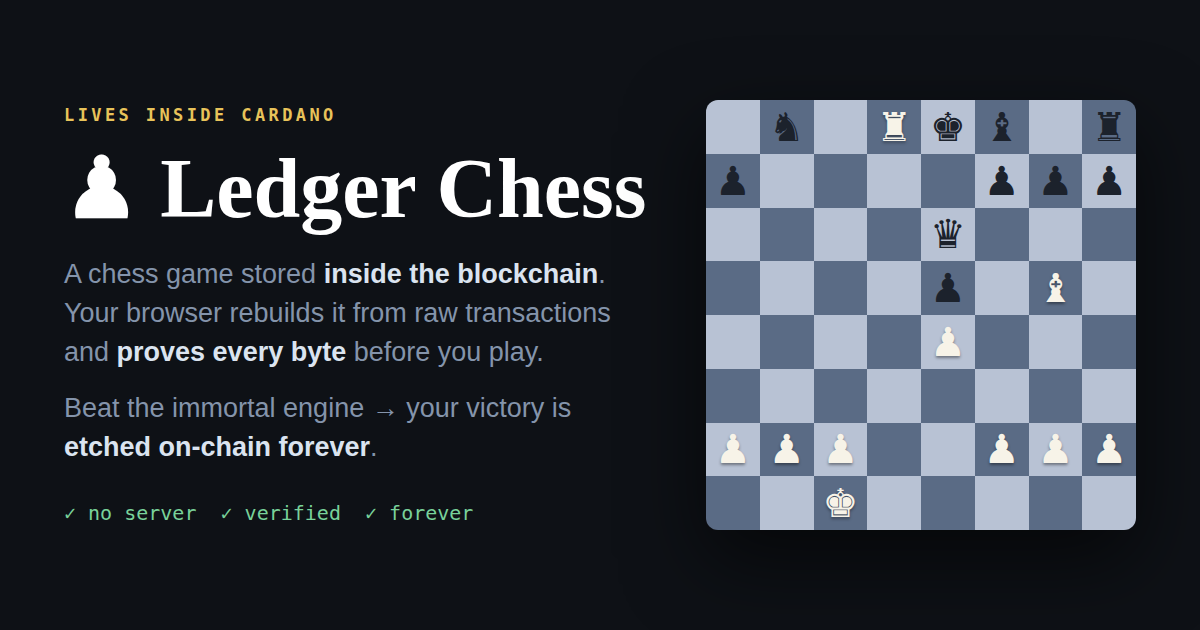
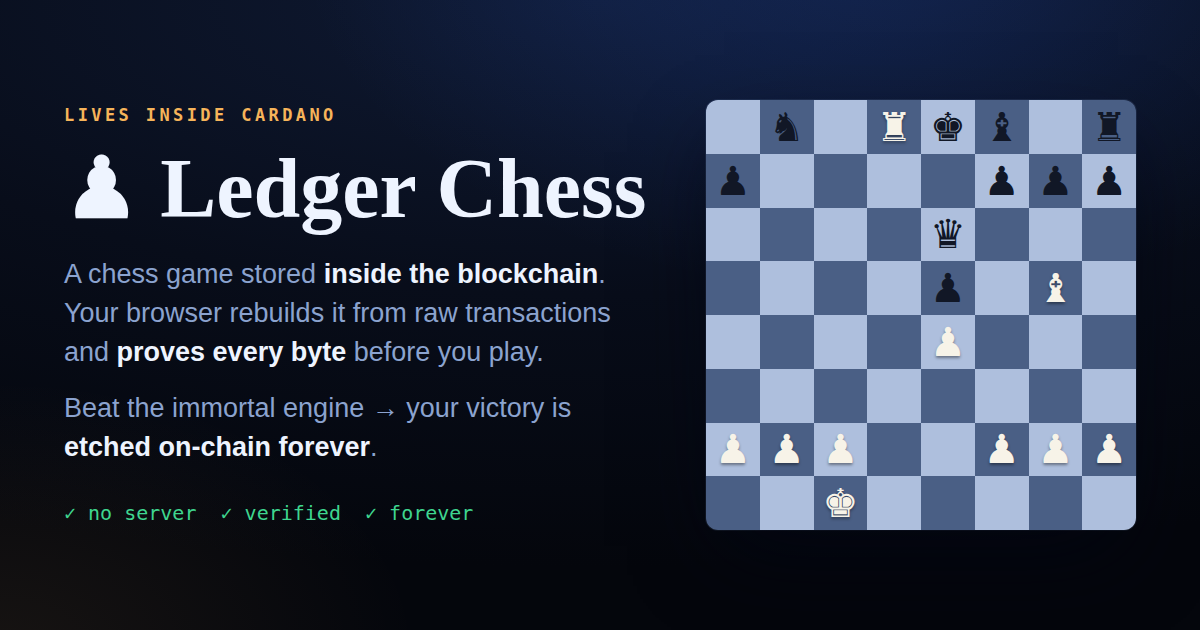
Share cards: dark, on-brand, and reproducible
The card every link renders as — on X, Discord, Telegram, iMessage — was still
light-themed with generic scroll clip-art, months after the site went Night
Ledger. It is the first thing anyone sees when this gets shared.

All three rebuilt on the dark field with the constellation the site actually
wears, and scripts/build_og_cards.mjs renders them from their HTML sources so a
card can never drift from its page again. It serves the sources over localhost
rather than file://, because a snap-confined Chromium cannot read a file inside a
dot-directory.

The chess card's board is the Opera Game's final position. It is a real mate —
checked against a chess engine, not eyeballed.

diff --git a/media/og-card-source.html b/media/og-card-source.html
@@ -2,92 +2,67 @@
 <html lang="en">
 <head>
 <meta charset="utf-8">
+<title>Ledger Scrolls — share card</title>
+<!-- Source for media/og-card.png (1200x630). Regenerate every card with:
+       node scripts/build_og_cards.mjs
+     Night Ledger palette, and the same constellation mark the site wears. -->
 <style>
-* { box-sizing: border-box; margin: 0; padding: 0; }
-html,body { width: 1200px; height: 630px; overflow: hidden; }
-body {
-  font-family: -apple-system, "Segoe UI", Roboto, Helvetica, Arial, sans-serif;
-  color: #14161b;
+*{box-sizing:border-box;margin:0;padding:0}
+html,body{width:1200px;height:630px;overflow:hidden}
+body{
+  font-family:-apple-system,"Segoe UI",Roboto,Helvetica,Arial,sans-serif;
+  color:#eef4ff;
   background:
-    radial-gradient(900px 520px at 82% -10%, rgba(47,83,255,.12), transparent 60%),
-    radial-gradient(700px 480px at 2% 8%, rgba(178,122,30,.10), transparent 60%),
-    linear-gradient(to right, rgba(20,22,27,.04) 1px, transparent 1px),
-    linear-gradient(to bottom, rgba(20,22,27,.04) 1px, transparent 1px),
-    #f6f5f1;
-  background-size: 100% 100%, 100% 100%, 46px 46px, 46px 46px;
-  position: relative;
-  display: flex; flex-direction: column; justify-content: center;
-  padding: 0 84px;
+    radial-gradient(1000px 620px at 78% -12%,rgba(47,107,255,.20),transparent 62%),
+    radial-gradient(760px 480px at 2% 106%,rgba(246,180,90,.09),transparent 60%),
+    linear-gradient(to right,rgba(158,195,255,.05) 1px,transparent 1px),
+    linear-gradient(to bottom,rgba(158,195,255,.05) 1px,transparent 1px),
+    radial-gradient(130% 90% at 50% 0%,#0f1a34 0%,#080d1a 52%,#04060c 100%);
+  background-size:100% 100%,100% 100%,48px 48px,48px 48px,100% 100%;
+  position:relative;display:flex;flex-direction:column;justify-content:center;
+  padding:0 84px;
 }
-.mark {
-  position: absolute; right: 64px; top: 50%; transform: translateY(-50%);
-  width: 340px; height: 340px; border-radius: 64px;
-  background: linear-gradient(150deg, #ffffff, #f6eedd);
-  border: 2px solid #dbd6ca;
-  box-shadow: 0 30px 70px -30px rgba(13,34,143,.28), 0 10px 28px -12px rgba(20,22,27,.15);
-  display: grid; place-items: center;
-  font-size: 170px;
-}
-.mark::after {
-  content: "";
-  position: absolute; inset: 22px; border-radius: 46px;
-  border: 2px dashed rgba(47,83,255,.32);
-}
-.chain {
-  position: absolute; right: 34px; top: 90px;
-  display: flex; flex-direction: column; gap: 14px;
-}
-.chain span {
-  width: 17px; height: 17px; border-radius: 50%;
-  background: #2f53ff; opacity: .85;
-  box-shadow: 0 0 0 6px rgba(47,83,255,.14);
-}
-.chain span:nth-child(2n) { background: #b27a1e; box-shadow: 0 0 0 6px rgba(178,122,30,.14); }
-.eyebrow {
-  display: inline-flex; width: fit-content; align-items: center; gap: 12px;
-  font-weight: 700; font-size: 21px; letter-spacing: .18em; text-transform: uppercase;
-  color: #0d228f; background: #ebefff;
-  border: 2px solid rgba(47,83,255,.25);
-  padding: 12px 26px; border-radius: 999px;
-  margin-bottom: 34px;
-}
-h1 {
-  font-size: 108px; line-height: .98; letter-spacing: -0.025em; font-weight: 800;
-  max-width: 720px;
-}
-h1 .b {
-  background: linear-gradient(90deg, #2f53ff, #b27a1e);
-  -webkit-background-clip: text; background-clip: text; color: transparent;
-}
-.tagline {
-  margin-top: 30px;
-  font-family: "Iowan Old Style", "Palatino Linotype", Palatino, Georgia, serif;
-  font-style: italic; font-size: 46px; color: #3a4049;
-}
-.footrow {
-  position: absolute; left: 84px; bottom: 52px;
-  display: flex; gap: 14px; align-items: center;
-  font-size: 22.5px; font-weight: 600; color: #6b7280;
-}
-.footrow .pill {
-  background: #ffffff; border: 2px solid #e6e3da; border-radius: 999px;
-  padding: 10px 22px; box-shadow: 0 2px 6px rgba(20,22,27,.06);
-}
-.footrow .pill b { color: #0a8f5b; }
-.footrow .pill.u { }
-.footrow .pill.f b { color: #0d228f; }
+/* the mark sits in the right third; the copy never crosses into it */
+.constellation{position:absolute;right:-118px;top:50%;transform:translateY(-50%);
+  width:560px;height:560px}
+.eyebrow{display:inline-flex;width:fit-content;align-items:center;
+  font-size:19px;font-weight:600;letter-spacing:.17em;text-transform:uppercase;
+  color:#9ec3ff;background:rgba(47,107,255,.14);border:1px solid rgba(47,107,255,.42);
+  padding:11px 22px;border-radius:999px}
+h1{font-size:100px;line-height:.98;letter-spacing:-.028em;font-weight:800;margin-top:26px;
+  max-width:700px}
+/* stop the gradient short of the final glyph — running it to 100% bleaches the
+   last letter into the background */
+h1 .b{background:linear-gradient(90deg,#9ec3ff 10%,#f6b45a 78%);
+  -webkit-background-clip:text;background-clip:text;color:transparent}
+.sub{margin-top:18px;font-size:38px;line-height:1.2;color:#c6d4ef;
+  font-family:"Iowan Old Style","Palatino Linotype",Palatino,Georgia,serif;font-style:italic}
+.facts{display:flex;gap:12px;margin-top:36px}
+.fact{font-size:19px;color:#c6d4ef;background:#0c1526;border:1px solid #263760;
+  border-radius:999px;padding:12px 20px;white-space:nowrap}
+.fact b{color:#eef4ff}
+.fact .ok{color:#3fd68f}
 </style>
 </head>
 <body>
-  <div class="chain" aria-hidden="true"><span></span><span></span><span></span><span></span><span></span></div>
-  <div class="mark">&#128220;</div>
-  <span class="eyebrow">Immutable media on Cardano</span>
-  <h1>Ledger<br><span class="b">Scrolls</span></h1>
-  <div class="tagline">A library that cannot burn.</div>
-  <div class="footrow">
-    <span class="pill"><b>&#10003;</b> verified on every read</span>
-    <span class="pill u">uncensorable &middot; timestamped</span>
-    <span class="pill f"><b>one fee</b> &middot; zero subscriptions</span>
-  </div>
+<svg class="constellation" viewBox="-360 -360 720 720" aria-hidden="true">
+  <g opacity=".92">
+    <g fill="#aecbff"><circle cx="105" cy="0" r="12"/><circle cx="52.5" cy="90.9" r="12"/><circle cx="-52.5" cy="90.9" r="12"/><circle cx="-105" cy="0" r="12"/><circle cx="-52.5" cy="-90.9" r="12"/><circle cx="52.5" cy="-90.9" r="12"/></g>
+    <g fill="#8fb4ff" fill-opacity=".6"><circle cx="160.2" cy="92.5" r="8"/><circle cx="0" cy="185" r="8"/><circle cx="-160.2" cy="92.5" r="8"/><circle cx="-160.2" cy="-92.5" r="8"/><circle cx="0" cy="-185" r="8"/><circle cx="160.2" cy="-92.5" r="8"/></g>
+    <g fill="#7ca2f4" fill-opacity=".42"><circle cx="255" cy="0" r="6.5"/><circle cx="127.5" cy="220.8" r="6.5"/><circle cx="-127.5" cy="220.8" r="6.5"/><circle cx="-127.5" cy="-220.8" r="6.5"/><circle cx="127.5" cy="-220.8" r="6.5"/></g>
+    <circle cx="-255" cy="0" r="6.5" fill="#f6b45a" fill-opacity=".9"/>
+    <circle r="34" fill="#2f6bff"/>
+    <circle r="34" fill="none" stroke="#cfe0ff" stroke-opacity=".55" stroke-width="2"/>
+  </g>
+</svg>
+
+<div class="eyebrow">Immutable media on Cardano</div>
+<h1>Ledger <span class="b">Scrolls</span></h1>
+<div class="sub">A library that cannot burn.</div>
+<div class="facts">
+  <div class="fact"><span class="ok">&#10003;</span> <b>verified</b> on every read</div>
+  <div class="fact">uncensorable &middot; timestamped</div>
+  <div class="fact"><b>one fee</b> &middot; zero subscriptions</div>
+</div>
 </body>
 </html>

diff --git a/media/ledger-book-card-source.html b/media/ledger-book-card-source.html
@@ -1,17 +1,27 @@
 <!doctype html>
-<html><head><meta charset="utf-8"><style>
-  body{margin:0;width:1200px;height:630px;overflow:hidden;background:#f6f5f1;
-       font-family:-apple-system,BlinkMacSystemFont,"Segoe UI",Roboto,sans-serif;display:flex;align-items:center}
+<html><head><meta charset="utf-8"><title>Ledger Book — share card</title>
+<!-- Source for media/ledger-book-card.png (1200x630) — node scripts/build_og_cards.mjs
+     Night Ledger chrome; the signatures stay paper-white, because that is what a
+     signed page looks like. -->
+<style>
+  *{box-sizing:border-box}
+  body{margin:0;width:1200px;height:630px;overflow:hidden;
+       background:
+         radial-gradient(900px 560px at 76% -10%,rgba(159,124,247,.16),transparent 62%),
+         radial-gradient(700px 460px at 0% 104%,rgba(47,107,255,.10),transparent 60%),
+         radial-gradient(130% 90% at 50% 0%,#0f1a34 0%,#080d1a 52%,#04060c 100%);
+       font-family:-apple-system,BlinkMacSystemFont,"Segoe UI",Roboto,sans-serif;
+       display:flex;align-items:center;color:#eef4ff}
   .left{flex:1;padding:60px 30px 60px 70px}
-  .kick{font:600 16px ui-monospace,monospace;letter-spacing:.18em;color:#b27a1e;text-transform:uppercase}
-  h1{font-family:"Iowan Old Style",Palatino,Georgia,serif;font-size:80px;margin:12px 0 8px;color:#14161b}
-  p{font-size:26px;line-height:1.5;color:#3a4049;max-width:520px}
-  p b{color:#14161b}
-  .tick{margin-top:24px;font:19px ui-monospace,monospace;color:#0a8f5b}
+  .kick{font:600 16px ui-monospace,monospace;letter-spacing:.18em;color:#f6b45a;text-transform:uppercase}
+  h1{font-family:"Iowan Old Style",Palatino,Georgia,serif;font-size:80px;margin:12px 0 8px;color:#eef4ff}
+  p{font-size:26px;line-height:1.5;color:#c6d4ef;max-width:520px}
+  p b{color:#eef4ff}
+  .tick{margin-top:24px;font:19px ui-monospace,monospace;color:#3fd68f}
   .stack{width:400px;margin-right:70px;position:relative;height:460px;flex-shrink:0}
-  .sig{position:absolute;left:0;right:0;background:#fff;border:1px solid #e6e3da;border-radius:10px;
-       padding:22px 24px;box-shadow:0 8px 26px rgba(20,22,27,.12);
-       background-image:repeating-linear-gradient(transparent,transparent 29px,#eceae2 30px)}
+  .sig{position:absolute;left:0;right:0;background:#f7f5ee;border:1px solid #d9d4c6;border-radius:10px;
+       padding:22px 24px;box-shadow:0 18px 44px -12px rgba(2,6,18,.85);
+       background-image:repeating-linear-gradient(transparent,transparent 29px,#e7e3d6 30px)}
   .sig .n{font-family:Georgia,serif;font-style:italic;font-size:26px;margin-bottom:6px}
   .sig .m{font-family:Georgia,serif;font-size:17px;color:#3a4049}
   .sig .d{margin-top:10px;font:11px ui-monospace,monospace;color:#9aa1ab}
@@ -19,17 +29,17 @@
 <body>
   <div class="left">
     <div class="kick">Lives inside Cardano</div>
-    <h1>✒️ Ledger Book</h1>
-    <p>A yearbook stored <b>in the blockchain itself</b>. One small transaction and your
+    <h1>&#9998;&#65039; Ledger Book</h1>
+    <p>A guestbook stored <b>in the blockchain itself</b>. One small transaction and your
     name is written somewhere it can <b>never be erased</b>.</p>
-    <div class="tick">✓ no server &nbsp;✓ no delete button &nbsp;✓ forever</div>
+    <div class="tick">&#10003; no server &nbsp;&#10003; no delete button &nbsp;&#10003; forever</div>
   </div>
   <div class="stack">
     <div class="sig" style="top:0;transform:rotate(-1.2deg)"><div class="n" style="color:#0d228f">Satoshi's neighbor</div>
-      <div class="m">Wish I'd signed something like this in 2010.</div><div class="d">Jul 2026 · tx 4f2a…</div></div>
-    <div class="sig" style="top:150px;transform:rotate(0.8deg)"><div class="n" style="color:#8a1e2d">maria ⭐</div>
-      <div class="m">We were here. The chain remembers.</div><div class="d">Jul 2026 · tx b81c…</div></div>
-    <div class="sig" style="top:300px;transform:rotate(-0.5deg)"><div class="n" style="color:#1e5a3a">$beacn 🦾</div>
-      <div class="m">First page of a book that cannot burn.</div><div class="d">Jul 2026 · tx e0d9…</div></div>
+      <div class="m">Wish I'd signed something like this in 2010.</div><div class="d">Jul 2026 &middot; tx 4f2a&hellip;</div></div>
+    <div class="sig" style="top:150px;transform:rotate(0.8deg)"><div class="n" style="color:#8a1e2d">maria &#11088;</div>
+      <div class="m">We were here. The chain remembers.</div><div class="d">Jul 2026 &middot; tx b81c&hellip;</div></div>
+    <div class="sig" style="top:300px;transform:rotate(-0.5deg)"><div class="n" style="color:#1e5a3a">$beacn &#129470;</div>
+      <div class="m">First page of a book that cannot burn.</div><div class="d">Jul 2026 &middot; tx e0d9&hellip;</div></div>
   </div>
 </body></html>

diff --git a/media/ledger-chess-card-source.html b/media/ledger-chess-card-source.html
@@ -1,19 +1,27 @@
 <!doctype html>
-<html><head><meta charset="utf-8"><style>
+<html><head><meta charset="utf-8"><title>Ledger Chess — share card</title>
+<!-- Source for media/ledger-chess-card.png (1200x630) — node scripts/build_og_cards.mjs
+     The board shows the Opera Game's final position (Morphy, 1858): 17.Rd8#.
+     Verified checkmate, not a decorative approximation. -->
+<style>
   body{margin:0;width:1200px;height:630px;overflow:hidden;font-family:-apple-system,BlinkMacSystemFont,"Segoe UI",Roboto,sans-serif;
-       background:#0e1116;color:#dbe4f0;display:flex}
+       background:
+         radial-gradient(950px 580px at 74% -10%,rgba(47,107,255,.18),transparent 62%),
+         radial-gradient(700px 460px at 0% 104%,rgba(246,180,90,.08),transparent 60%),
+         radial-gradient(130% 90% at 50% 0%,#0f1a34 0%,#080d1a 52%,#04060c 100%);
+       color:#c6d4ef;display:flex}
   .left{flex:1;padding:64px 20px 64px 64px;display:flex;flex-direction:column;justify-content:center}
-  .kick{font:600 17px ui-monospace,monospace;letter-spacing:.2em;color:#e8c35a;text-transform:uppercase}
-  h1{font-family:"Iowan Old Style",Palatino,Georgia,serif;font-size:84px;margin:14px 0 10px;color:#fff}
-  p{font-size:27px;line-height:1.45;color:#8494ab;margin:8px 0;max-width:560px}
-  p b{color:#dbe4f0}
-  .tick{margin-top:26px;font:20px ui-monospace,monospace;color:#79d29a}
+  .kick{font:600 17px ui-monospace,monospace;letter-spacing:.2em;color:#f6b45a;text-transform:uppercase}
+  h1{font-family:"Iowan Old Style",Palatino,Georgia,serif;font-size:84px;margin:14px 0 10px;color:#eef4ff}
+  p{font-size:27px;line-height:1.45;color:#8ba3cf;margin:8px 0;max-width:560px}
+  p b{color:#eef4ff}
+  .tick{margin-top:26px;font:20px ui-monospace,monospace;color:#3fd68f}
   .board{width:430px;height:430px;align-self:center;margin-right:64px;border-radius:12px;overflow:hidden;
          display:grid;grid-template-columns:repeat(8,1fr);grid-template-rows:repeat(8,1fr);
-         box-shadow:0 30px 80px rgba(0,0,0,.6);flex-shrink:0}
+         box-shadow:0 34px 80px -18px rgba(2,6,18,.9),0 0 0 1px rgba(158,195,255,.10);flex-shrink:0}
   .c{display:flex;align-items:center;justify-content:center;font-size:40px}
-  .l{background:#b8c2d4}.d{background:#5a6b85}
-  .w{color:#f7f3e8;text-shadow:0 2px 3px rgba(0,0,0,.4)}.b{color:#1c222c}
+  .l{background:#aebfdd}.d{background:#4a5f85}
+  .w{color:#f7f3e8;text-shadow:0 2px 3px rgba(0,0,0,.4)}.b{color:#111726}
 </style></head>
 <body>
   <div class="left">